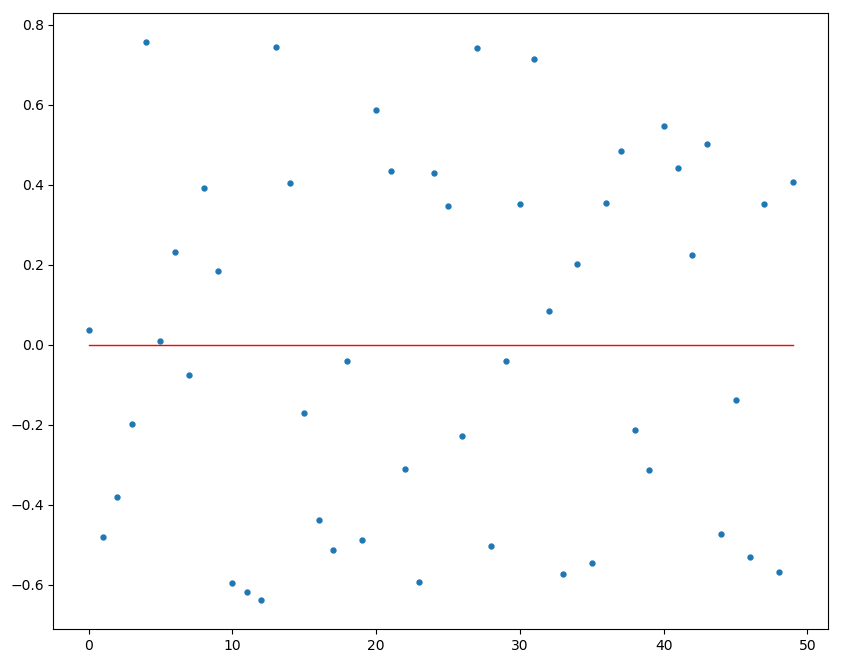
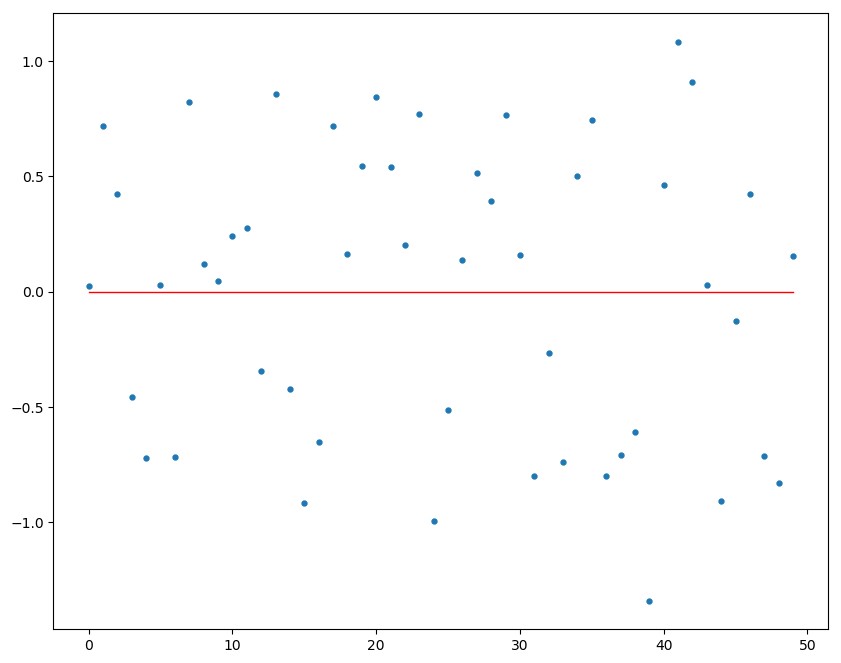
modify check converge of theta

diff --git a/src/Lec3/admm.py b/src/Lec3/admm.py
@@ -1,13 +1,13 @@
 import numpy as np
 import matplotlib.pyplot as plt
 
-lambdalist = [0.001, 0.01, 0.1, 1]
+lambdalist = [0.001, 0.01, 0.1]
 hlist = [0.1, 1, 10]
 
 # set seed
 np.random.seed(16)
 
-p = 1e-5
+p = 1e-4
 
 # sample data 
 def generate_sample(xmin, xmax, sample_size):
@@ -29,12 +29,13 @@ def update_one_step(x, y, z, u, h, l):
 def train(x, y, h, l, p):
     z = np.random.rand(y.shape[0])
     u = np.random.rand(y.shape[0])
-    theta = np.random.rand(y.shape[0])
+    theta_pre = np.random.rand(y.shape[0])
 
-    for i in range(100):
+    for i in range(10000):
         theta, z, u = update_one_step(x, y, z, u, h, l)
-        if np.linalg.norm(theta - z) < p:
+        if np.linalg.norm(theta - theta_pre) < p:
             break
+        theta_pre = theta
     return theta
 
 def predict(x, X, h, l, theta):
@@ -56,7 +57,7 @@ def cross_validation(x_all, y_all, h, l, splited_size):
     return sum(errorlist)/len(errorlist)
 
 
-def plot_func(x_all, y_all, xmin, xmax, h, l, error):
+def plot_func(x_all, y_all, xmin, xmax, h, l, error=None):
     global p
     # plot用のデータ作成
     x_true = np.arange(xmin, xmax, 0.01)
@@ -64,7 +65,10 @@ def plot_func(x_all, y_all, xmin, xmax, h, l, error):
     theta = train(x_all, y_all, h, l, p)
     y_pre = predict(x_all, x_true, h, l, theta)
     # plot
-    plt.title('$\lambda$ = {}, h = {}, error = {:.3f}'.format(l, h, error))
+    if error != None:
+        plt.title('$\lambda$ = {}, h = {}, error = {:.3f}'.format(l, h, error))
+    else:
+        plt.title('$\lambda$ = {}, h = {}'.format(l, h))
     plt.plot(x_true, y_true, c='r', lw=1.5)
     plt.plot(x_true, y_pre, c='limegreen', lw=1.5)
     plt.scatter(x_all, y_all, s=5)
@@ -74,26 +78,30 @@ sample_size = 50
 xmin, xmax = -3, 3
 x_all, y_all = generate_sample(xmin=xmin, xmax=xmax, sample_size=sample_size)
 
-error_list = [[] for _ in range(len(hlist))]
 
-fig = plt.figure(figsize=(16, 10), dpi=200)
-plt.rcParams["font.size"] = 10
-for i in range(len(hlist)):
-    for j in range(len(lambdalist)):
-        err = cross_validation(x_all, y_all, hlist[i], lambdalist[j], 10)
-        error_list[i].append(err)
-        plt.subplot(len(hlist), len(lambdalist), int(i*len(lambdalist) + j + 1))
-        plot_func(x_all, y_all, xmin, xmax, hlist[i], lambdalist[j], err)
+##########################################################
+# 交差検証によってh, l決める場合は以下のコメントアウトを外す．#
+##########################################################
+h, l = 1, 0.01
+# error_list = [[] for _ in range(len(hlist))]
+# fig = plt.figure(figsize=(16, 10), dpi=200)
+# plt.rcParams["font.size"] = 10
+# for i in range(len(hlist)):
+#     for j in range(len(lambdalist)):
+#         err = cross_validation(x_all, y_all, hlist[i], lambdalist[j], 10)
+#         error_list[i].append(err)
+#         plt.subplot(len(hlist), len(lambdalist), int(i*len(lambdalist) + j + 1))
+#         plot_func(x_all, y_all, xmin, xmax, hlist[i], lambdalist[j], err)
+#
+# plt.savefig('../../output/Lec3/result.png', bbox_inches='tight')
 
-plt.savefig('../../output/Lec3/result.png', bbox_inches='tight')
+# # serach best h, l
+# minlist = np.array([min(error_list[i]) for i in range(len(error_list))])
+# hidx = np.argmin(minlist)
+# lidx = np.argmin(np.array(error_list[hidx]))
 
-# serach best h, l
-minlist = np.array([min(error_list[i]) for i in range(len(error_list))])
-hidx = np.argmin(minlist)
-lidx = np.argmin(np.array(error_list[hidx]))
-
-print('h = {}, l = {}'.format(hlist[hidx], lambdalist[lidx]))
-h, l = hlist[hidx], lambdalist[lidx]
+# print('h = {}, l = {}'.format(hlist[hidx], lambdalist[lidx]))
+# h, l = hlist[hidx], lambdalist[lidx]
 
 # train with this h l
 theta = train(x_all, y_all, h, l, p)
@@ -104,3 +112,7 @@ fig = plt.figure(figsize=(10, 8), dpi=100)
 plt.scatter(param_idx, theta, marker='.', s=50)
 plt.plot([param_idx[0], param_idx[-1]], [0, 0], c='r', lw=1)
 plt.savefig('../../output/Lec3/params.png', bbox_inches='tight')
+
+fig = plt.figure(figsize=(10, 8), dpi=100)
+plot_func(x_all, y_all, xmin, xmax, h, l)
+plt.savefig('../../output/Lec3/result2.png', bbox_inches='tight')

diff --git a/src/Lec2/cross_validation.py b/src/Lec2/cross_validation.py
@@ -5,7 +5,7 @@ lambdalist = [0.001, 0.01, 0.1, 1]
 hlist = [0.1, 1, 10]
 
 # set seed
-np.random.seed(10)
+np.random.seed(16)
 
 # sample data 
 def generate_sample(xmin, xmax, sample_size):
@@ -89,3 +89,7 @@ fig = plt.figure(figsize=(10, 8), dpi=100)
 plt.scatter(param_idx, theta, marker='.', s=50)
 plt.plot([param_idx[0], param_idx[-1]], [0, 0], c='r', lw=1)
 plt.savefig('../../output/Lec2/params.png', bbox_inches='tight')
+
+fig = plt.figure(figsize=(10, 8), dpi=100)
+plot_func(x_all, y_all, h, l, min(minlist))
+plt.savefig('../../output/Lec2/result2.png', bbox_inches='tight')
